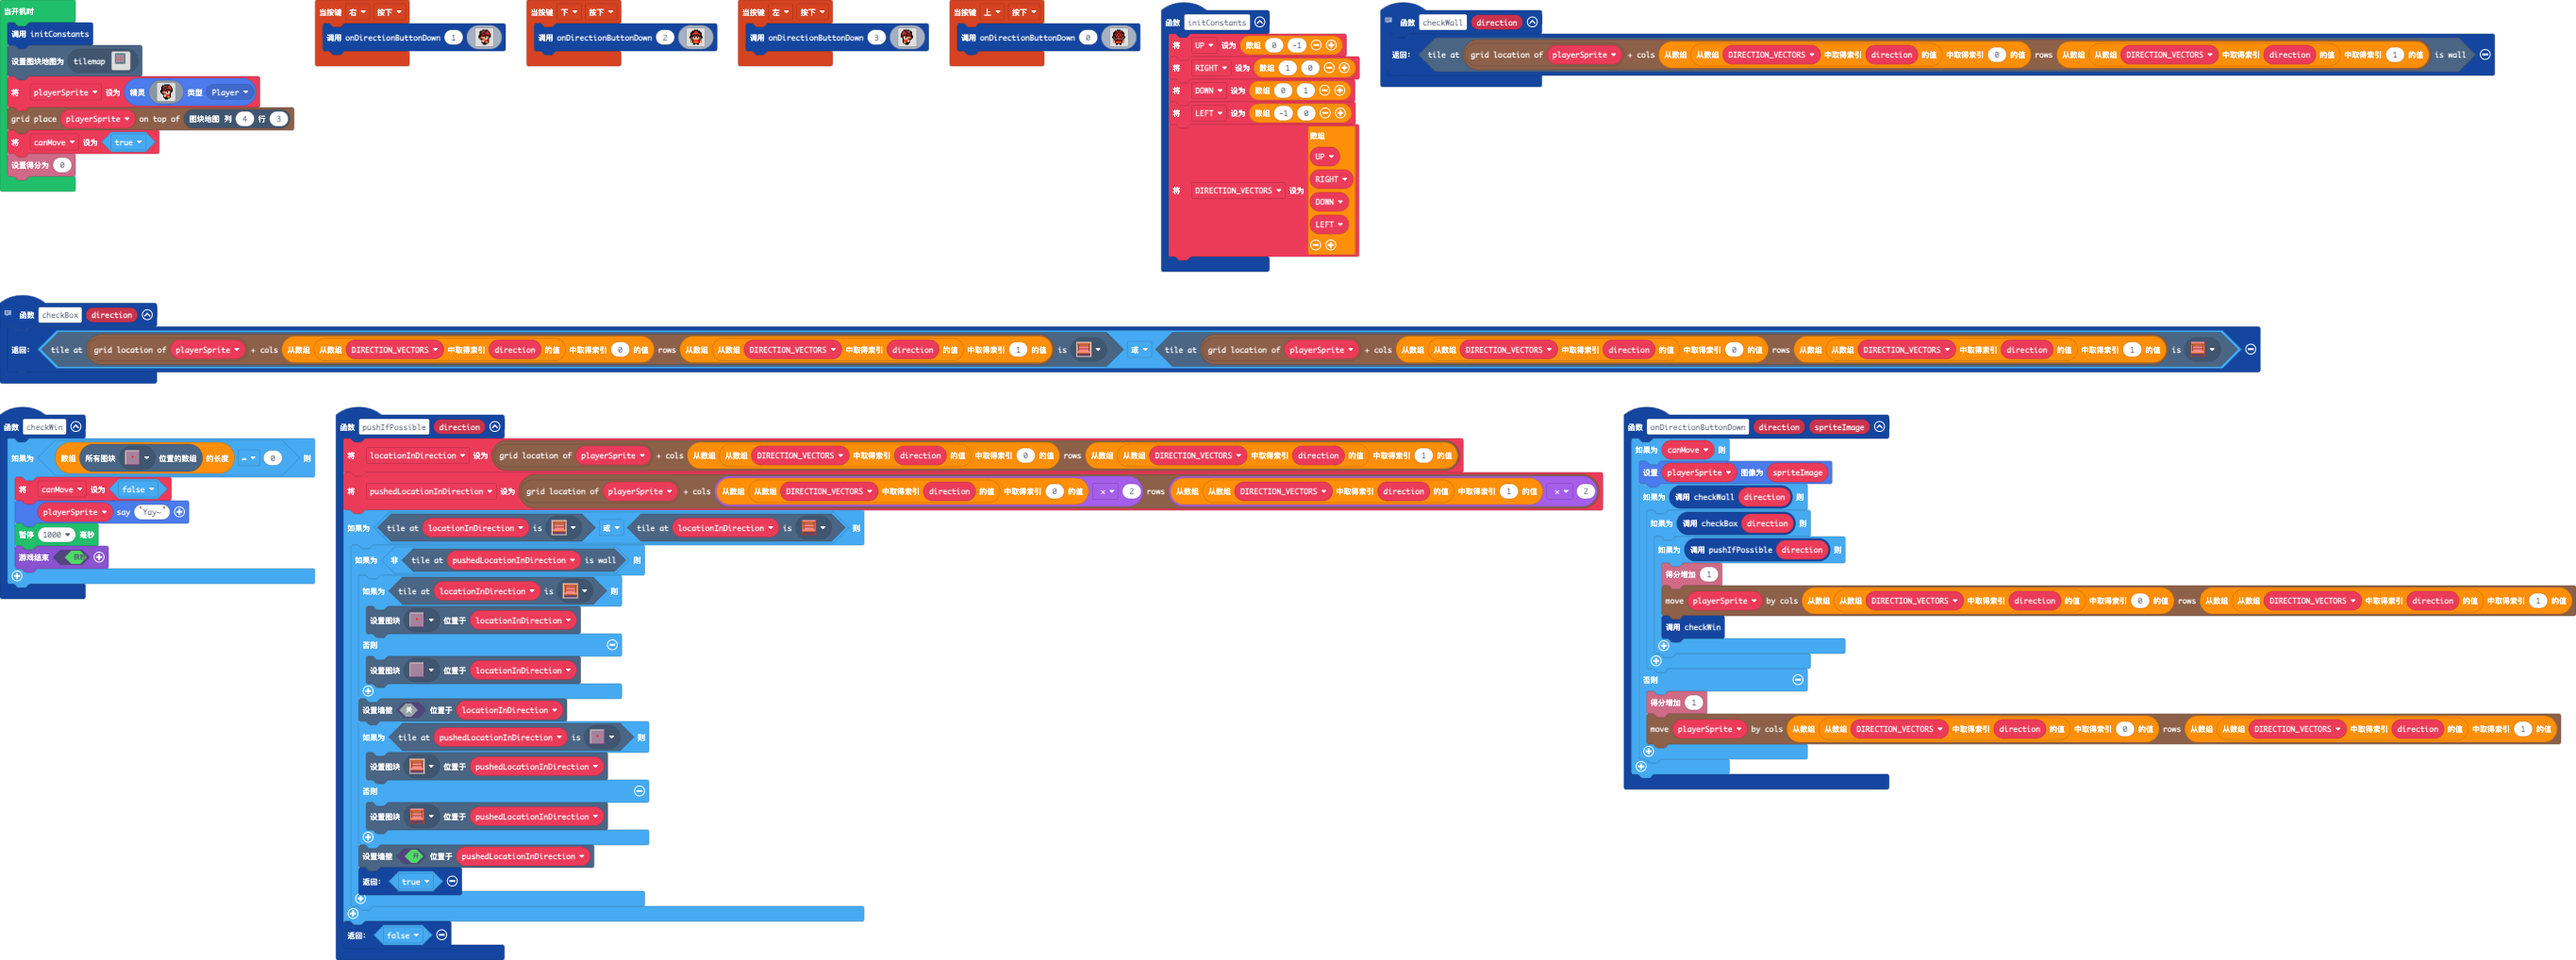
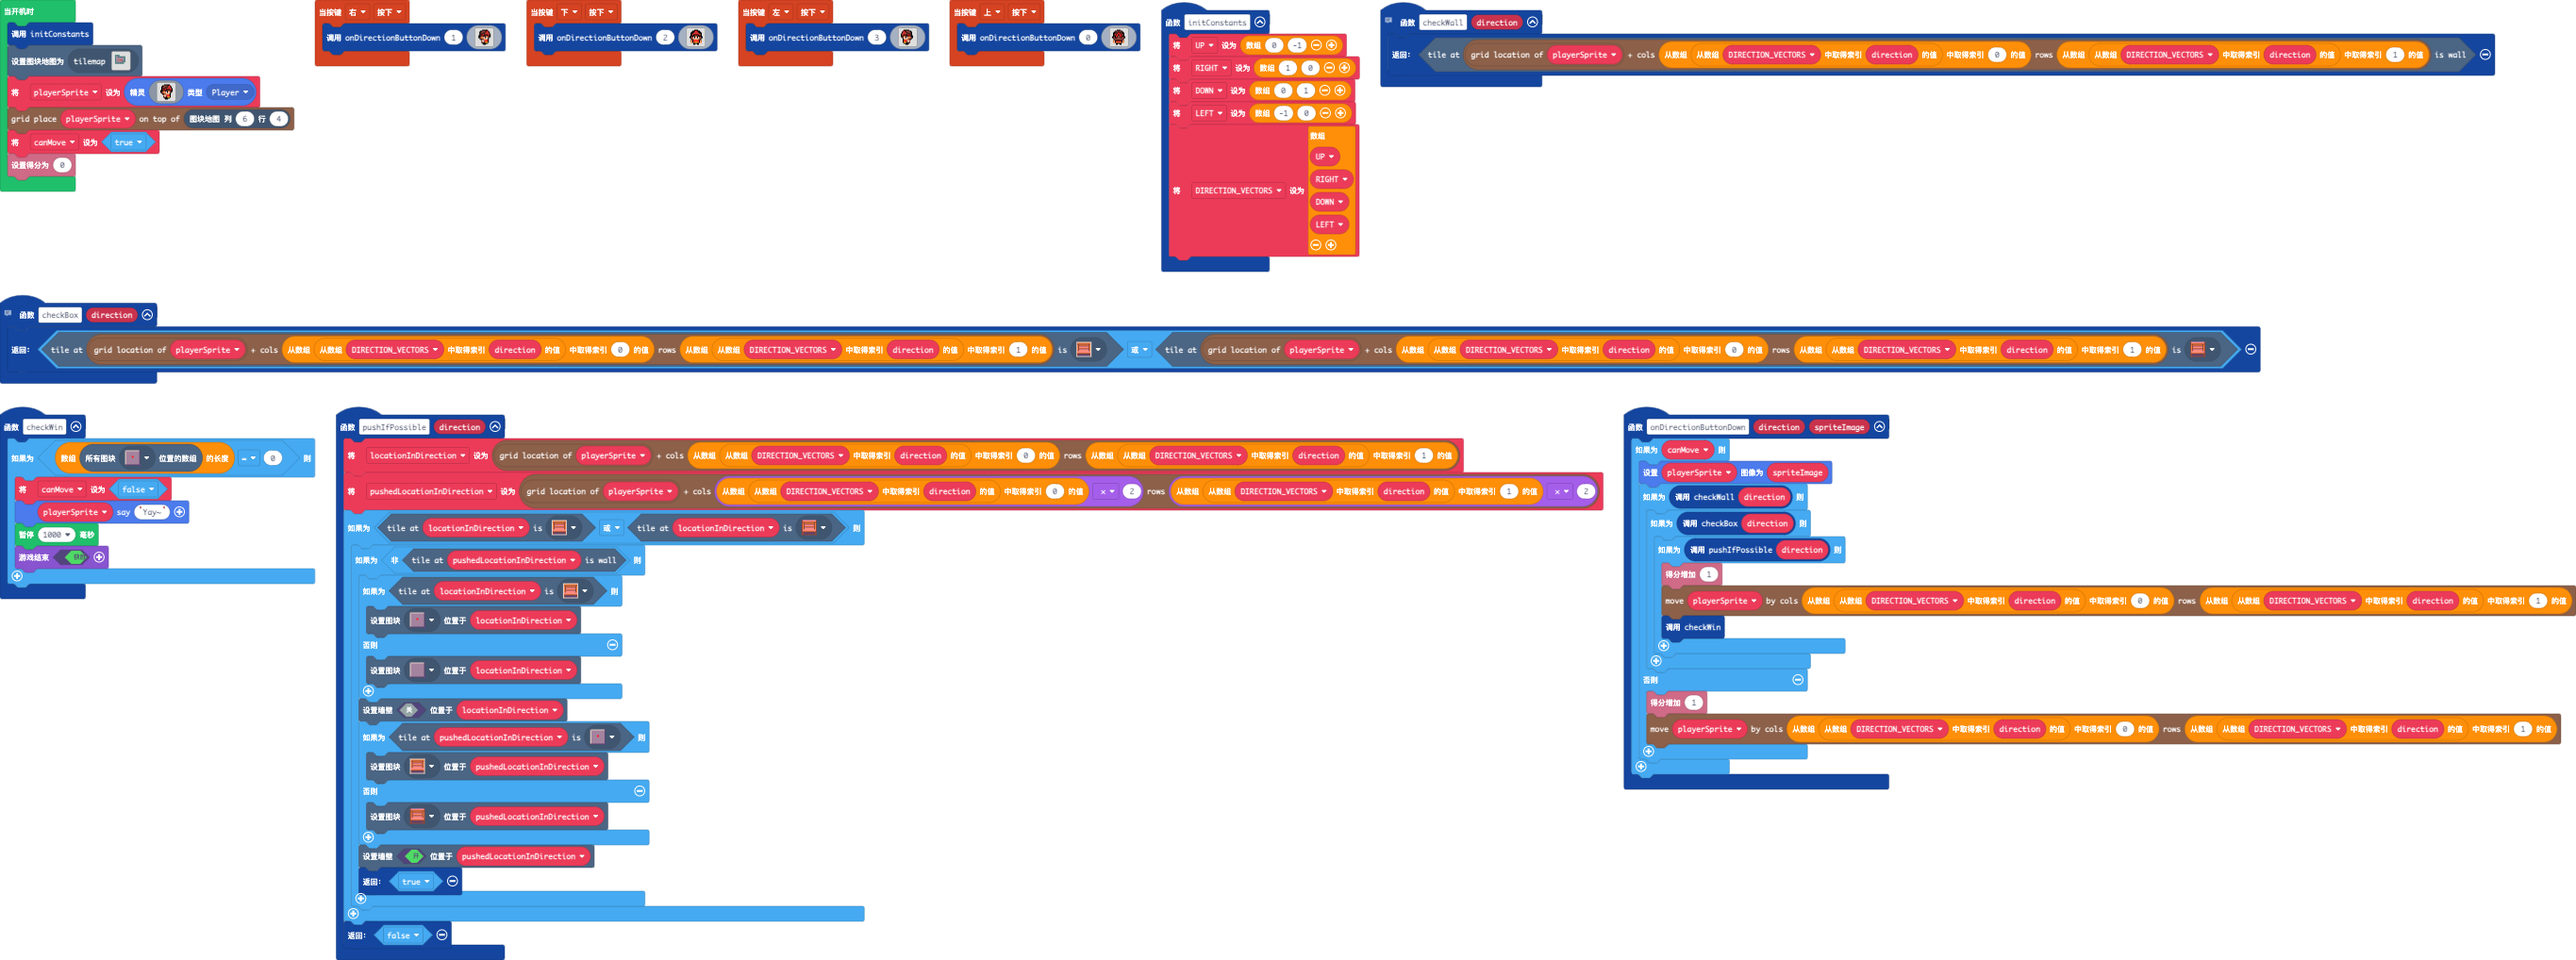
新增第三关

diff --git a/tilemap.g.ts b/tilemap.g.ts
@@ -46,6 +46,19 @@ namespace myTiles {
 . . . . . . . . . . 
 . . . . . . . . . . 
 `, [myTiles.transparency16,myTiles.tile1,sprites.dungeon.greenOuterNorthWest,sprites.dungeon.greenOuterNorth0,sprites.dungeon.greenOuterNorthEast,sprites.dungeon.greenOuterEast0,sprites.dungeon.greenOuterSouthWest,sprites.dungeon.greenOuterSouth1,sprites.dungeon.greenOuterSouthEast,sprites.dungeon.greenOuterWest0,sprites.dungeon.floorDark2,sprites.dungeon.stairLadder], TileScale.Sixteen);
+            case "level3":
[1 lines of base64/hex data omitted]
+. . . . . . . . . . 
+. 2 2 2 . . . . . . 
+. 2 . 2 2 2 2 2 . . 
+. 2 . . . . . 2 . . 
+. 2 . 2 2 2 . 2 . . 
+. 2 . . . . 2 2 . . 
+. 2 2 2 2 2 2 . . . 
+. . . . . . . . . . 
+. . . . . . . . . . 
+. . . . . . . . . . 
+`, [myTiles.transparency16,myTiles.tile1,sprites.dungeon.greenOuterNorthWest,sprites.dungeon.greenOuterNorth0,sprites.dungeon.greenOuterNorthEast,sprites.dungeon.greenOuterWest0,sprites.dungeon.greenOuterSouthEast,sprites.dungeon.greenOuterSouth1,sprites.dungeon.stairLadder,sprites.dungeon.greenOuterEast0,sprites.dungeon.greenOuterSouthWest,sprites.dungeon.greenInnerNorthWest,sprites.dungeon.floorDark2,sprites.dungeon.greenInnerSouthWest], TileScale.Sixteen);
         }
         return null;
     })

diff --git a/main.ts b/main.ts
@@ -161,7 +161,7 @@ let locationInDirection: tiles.Location = null
 let canMove = false
 let playerSprite: Sprite = null
 initConstants()
-tiles.setCurrentTilemap(tilemap`level2`)
+tiles.setCurrentTilemap(tilemap`level3`)
 playerSprite = sprites.create(img`
     . . . . . . f f f f f f . . . . 
     . . . . f f e e e e f 2 f . . . 
@@ -180,6 +180,6 @@ playerSprite = sprites.create(img`
     . . . . . . f f f f f f . . . . 
     . . . . . . . f f f . . . . . . 
     `, SpriteKind.Player)
-grid.place(playerSprite, tiles.getTileLocation(4, 3))
+grid.place(playerSprite, tiles.getTileLocation(6, 4))
 canMove = true
 info.setScore(0)
